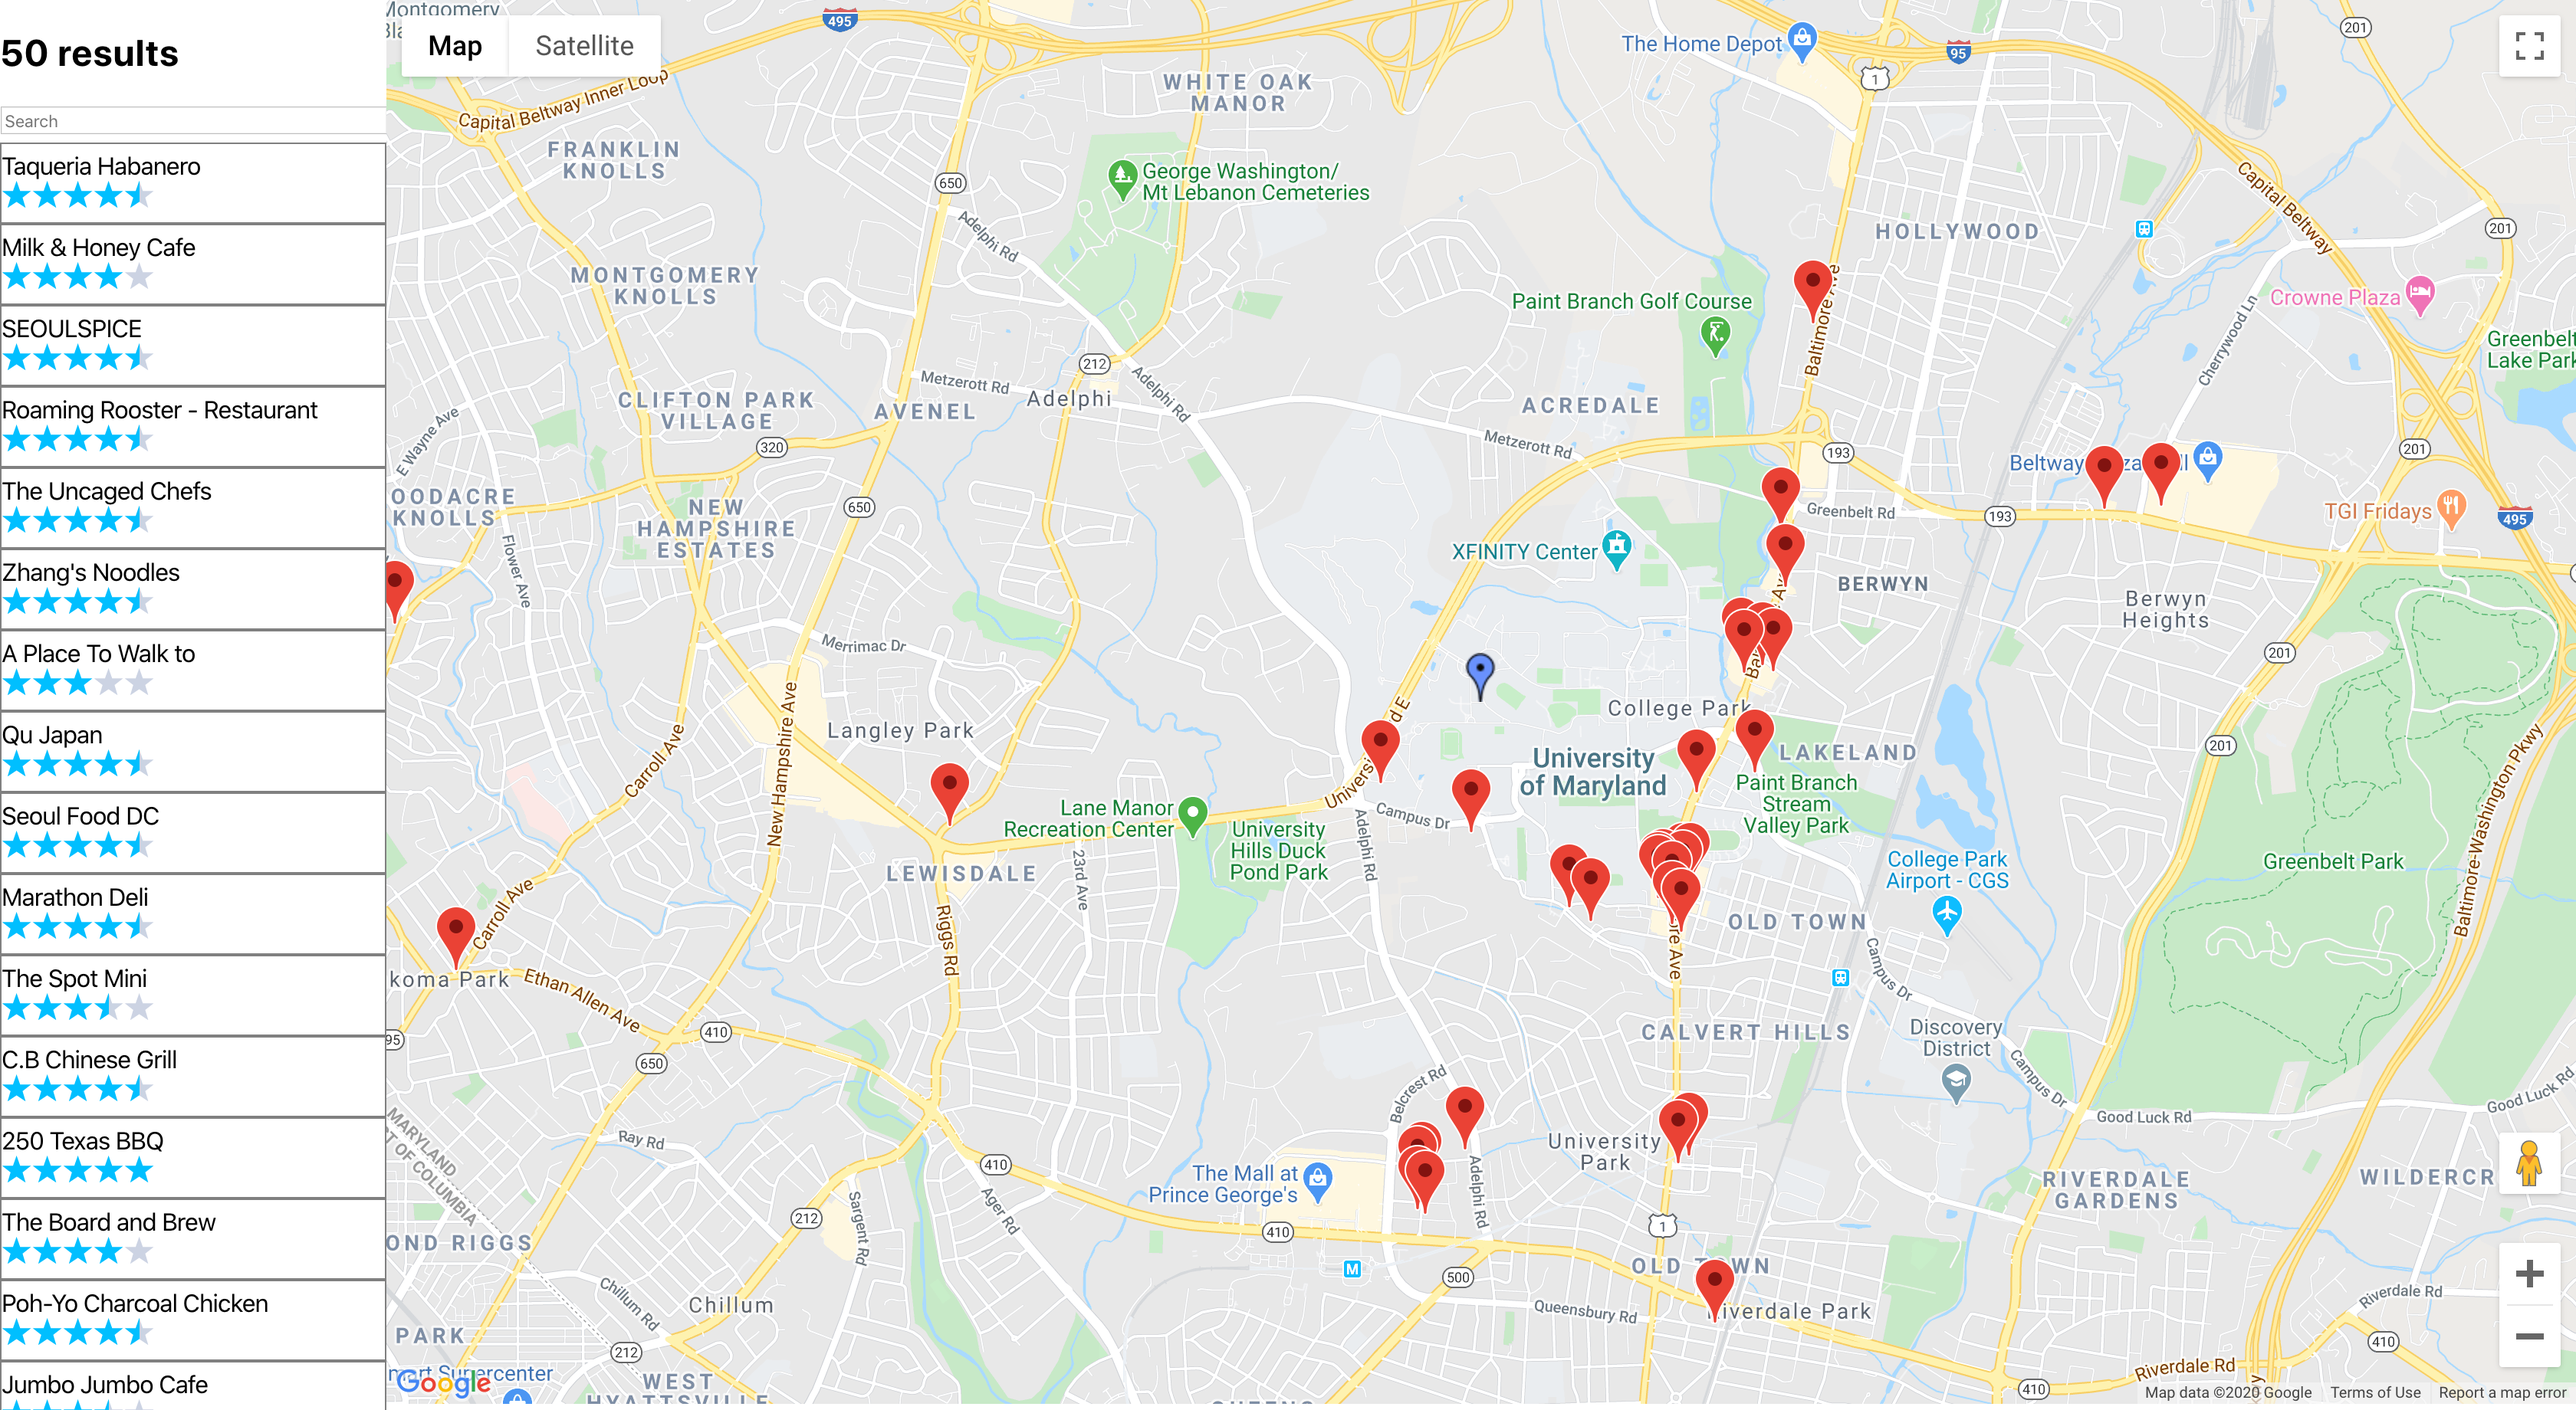
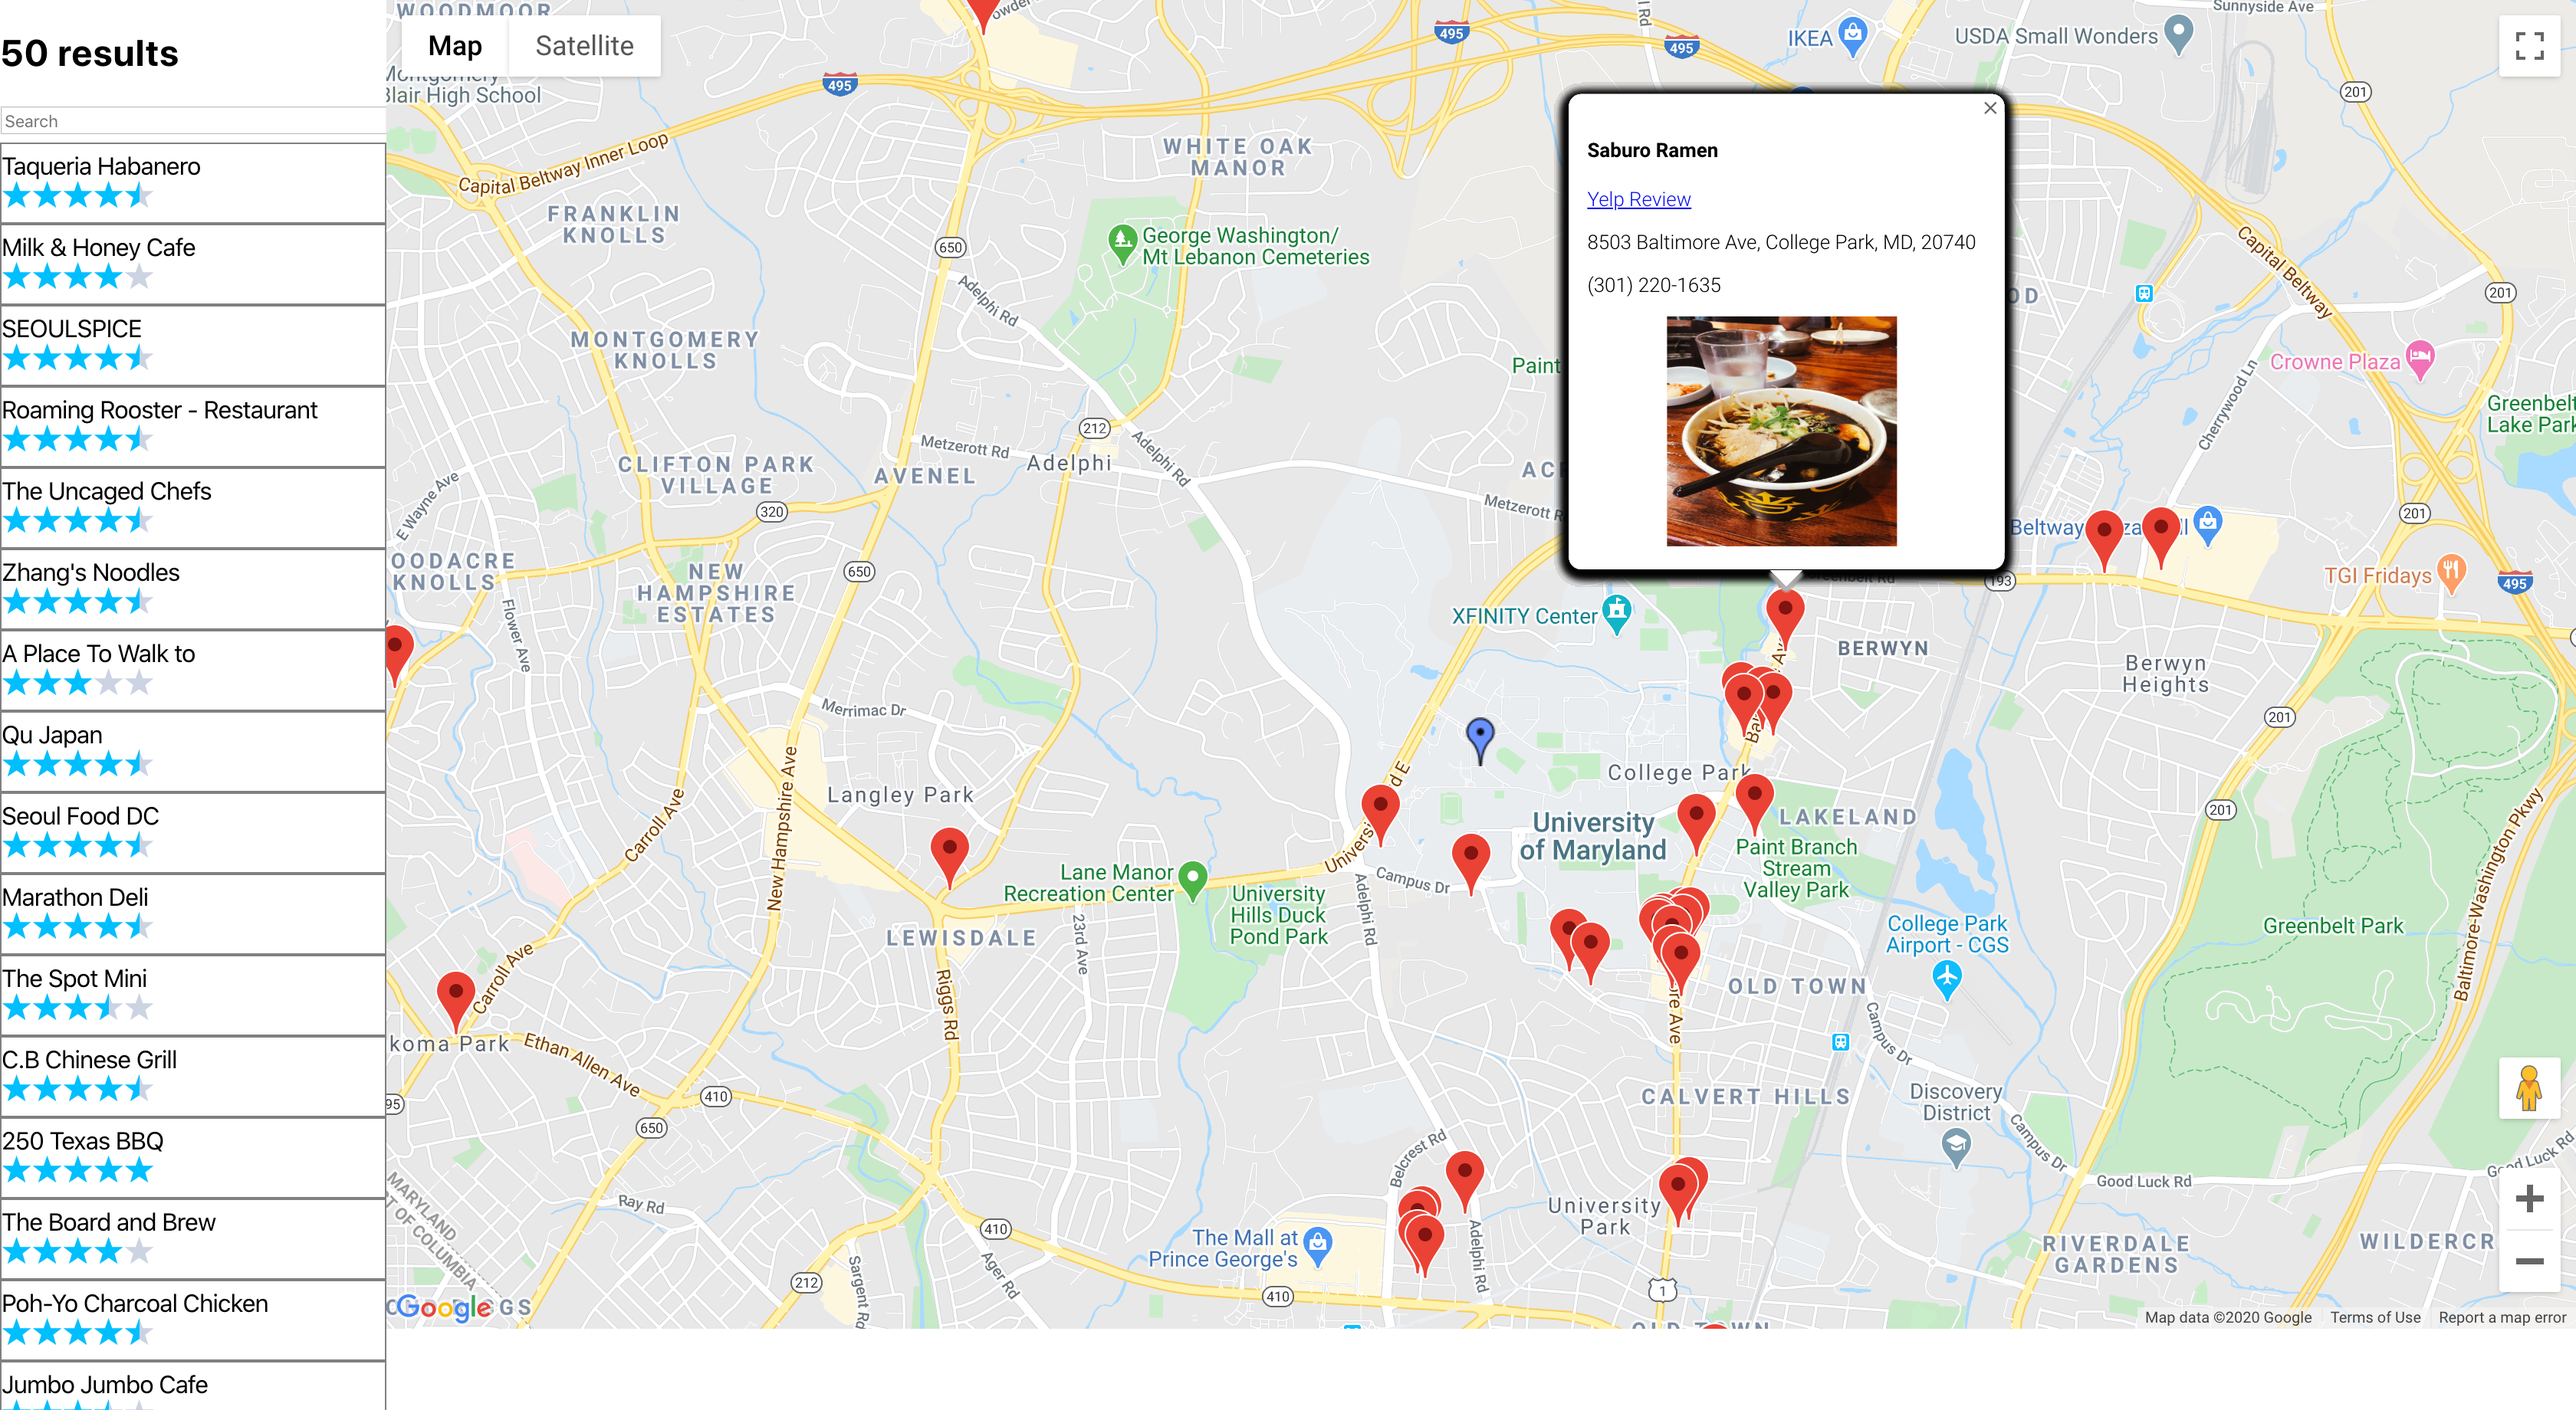
3/3/2020 README update

Changed region(s): [[0.125, 0.0, 1.0, 1.0], [0.125, 0.5886, 0.1562, 0.6196]]

diff --git a/README.md b/README.md
@@ -1,3 +1,5 @@
 React App using Yelp API and Google Maps (https://mli25782.github.io/yelp_with_google_maps/)
 
 ![](/images/app.png)
+
+Plots the nearest 50 restaurants from current location on a map with clickable markers that show an info window with relevent information, including a link to the yelp review page. Also includes a search bar on the left that dynamically filters the markers displaying on the map.
